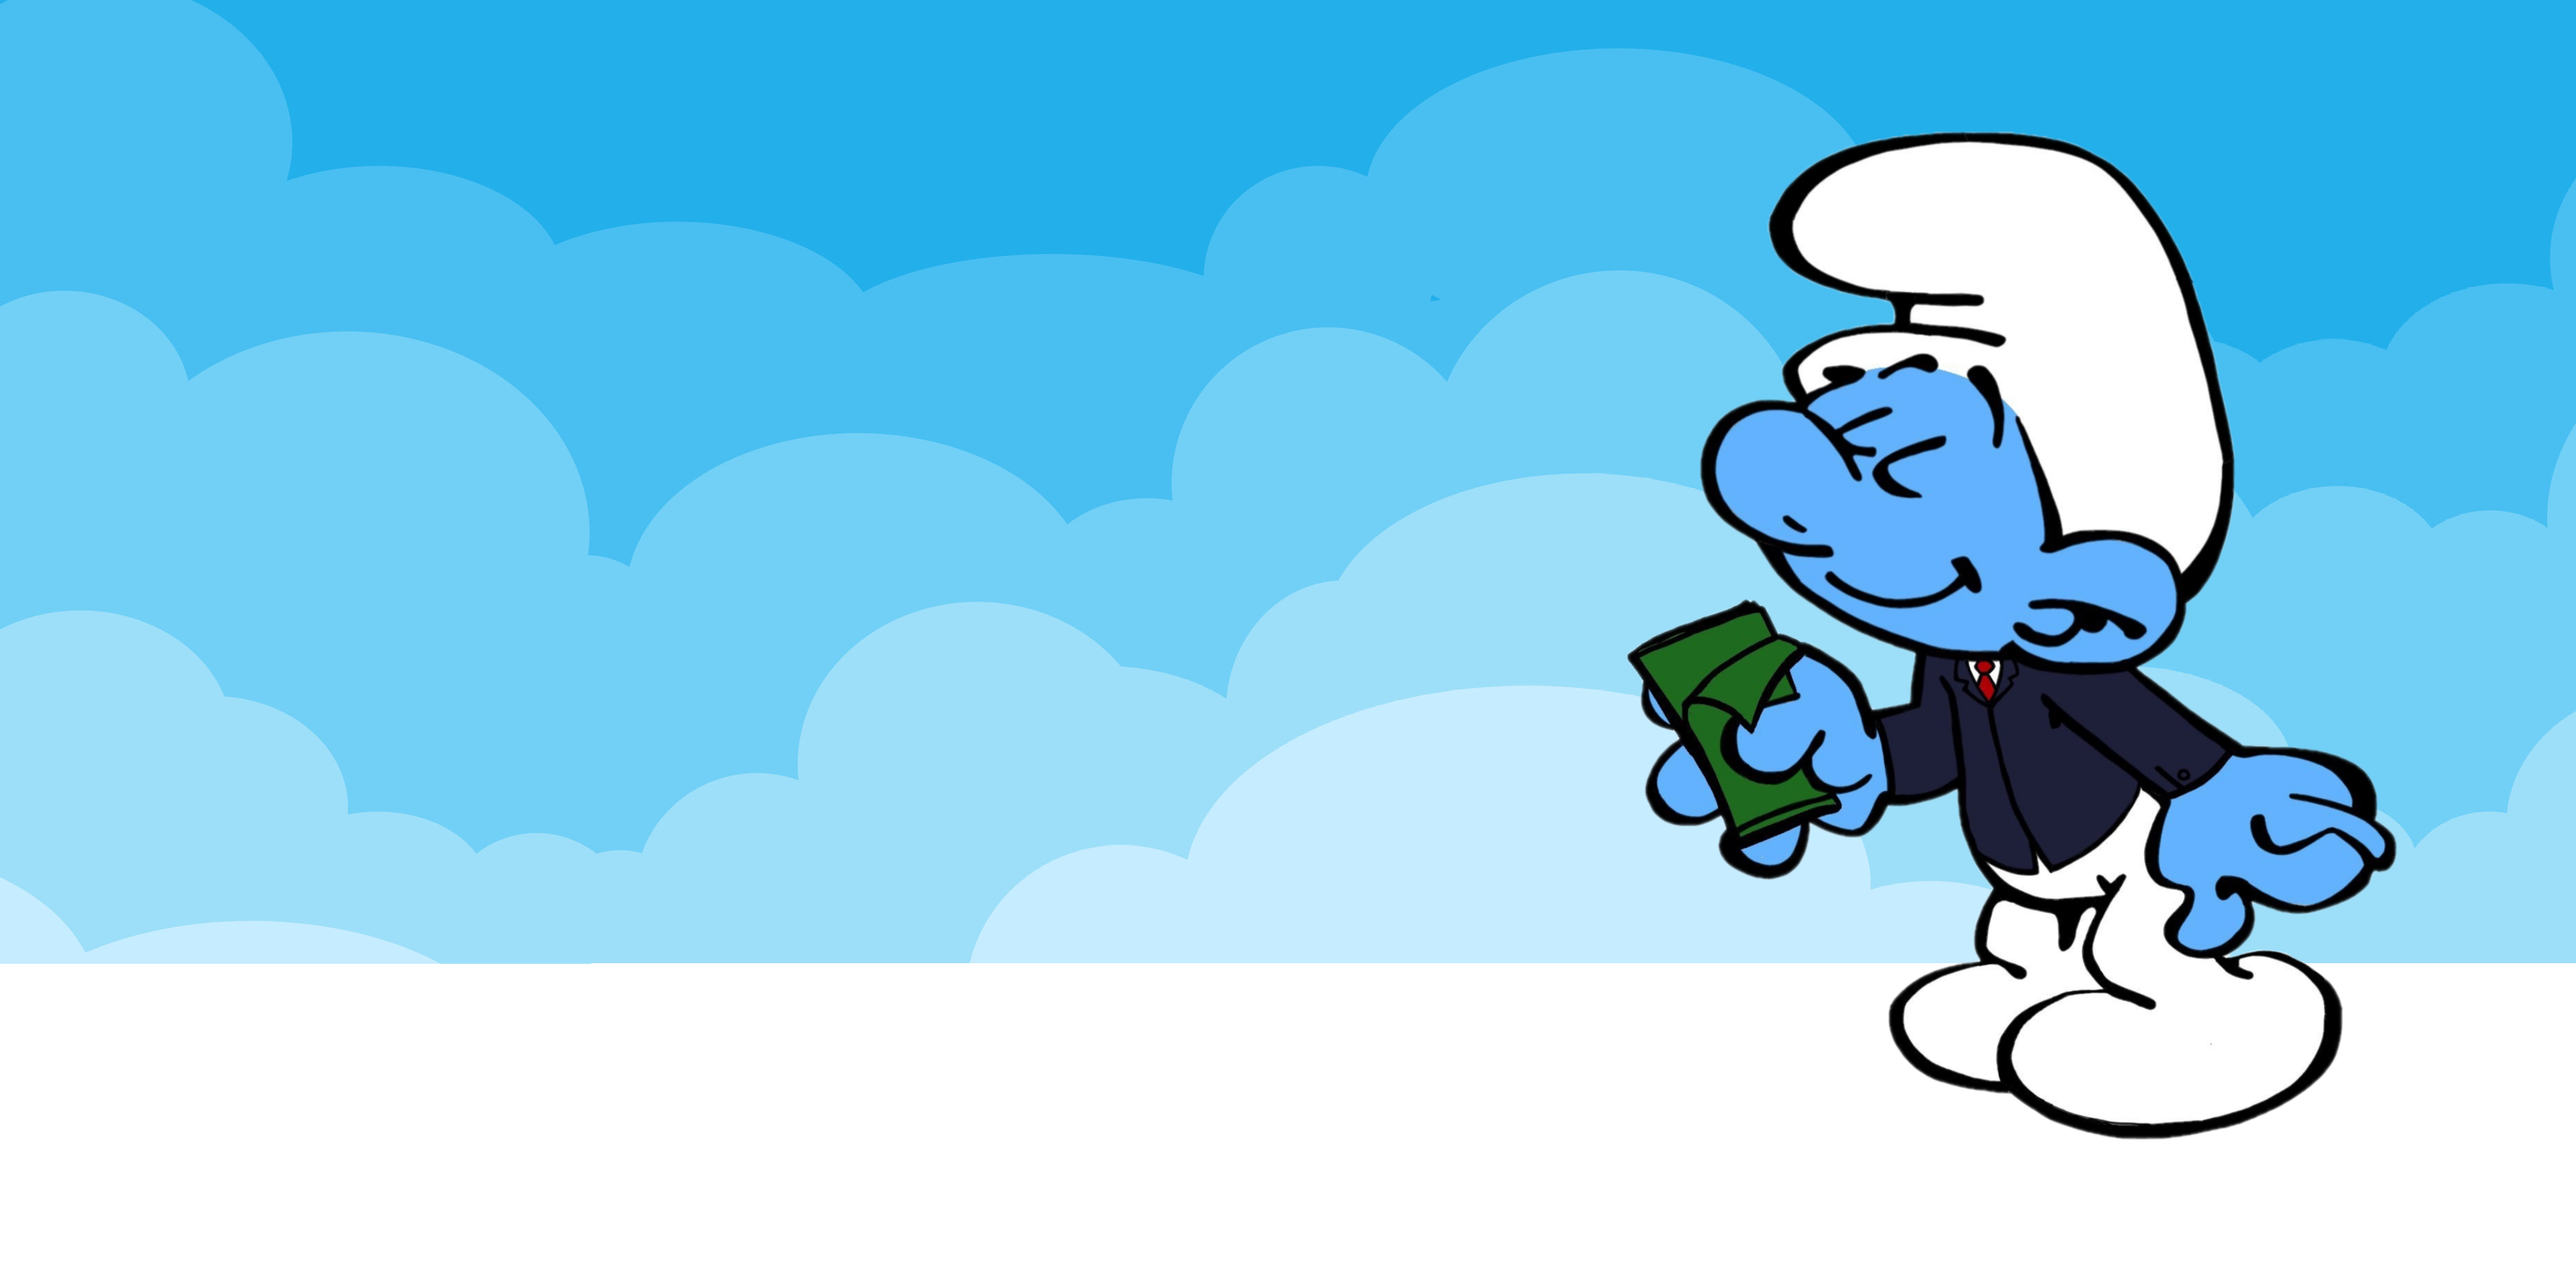
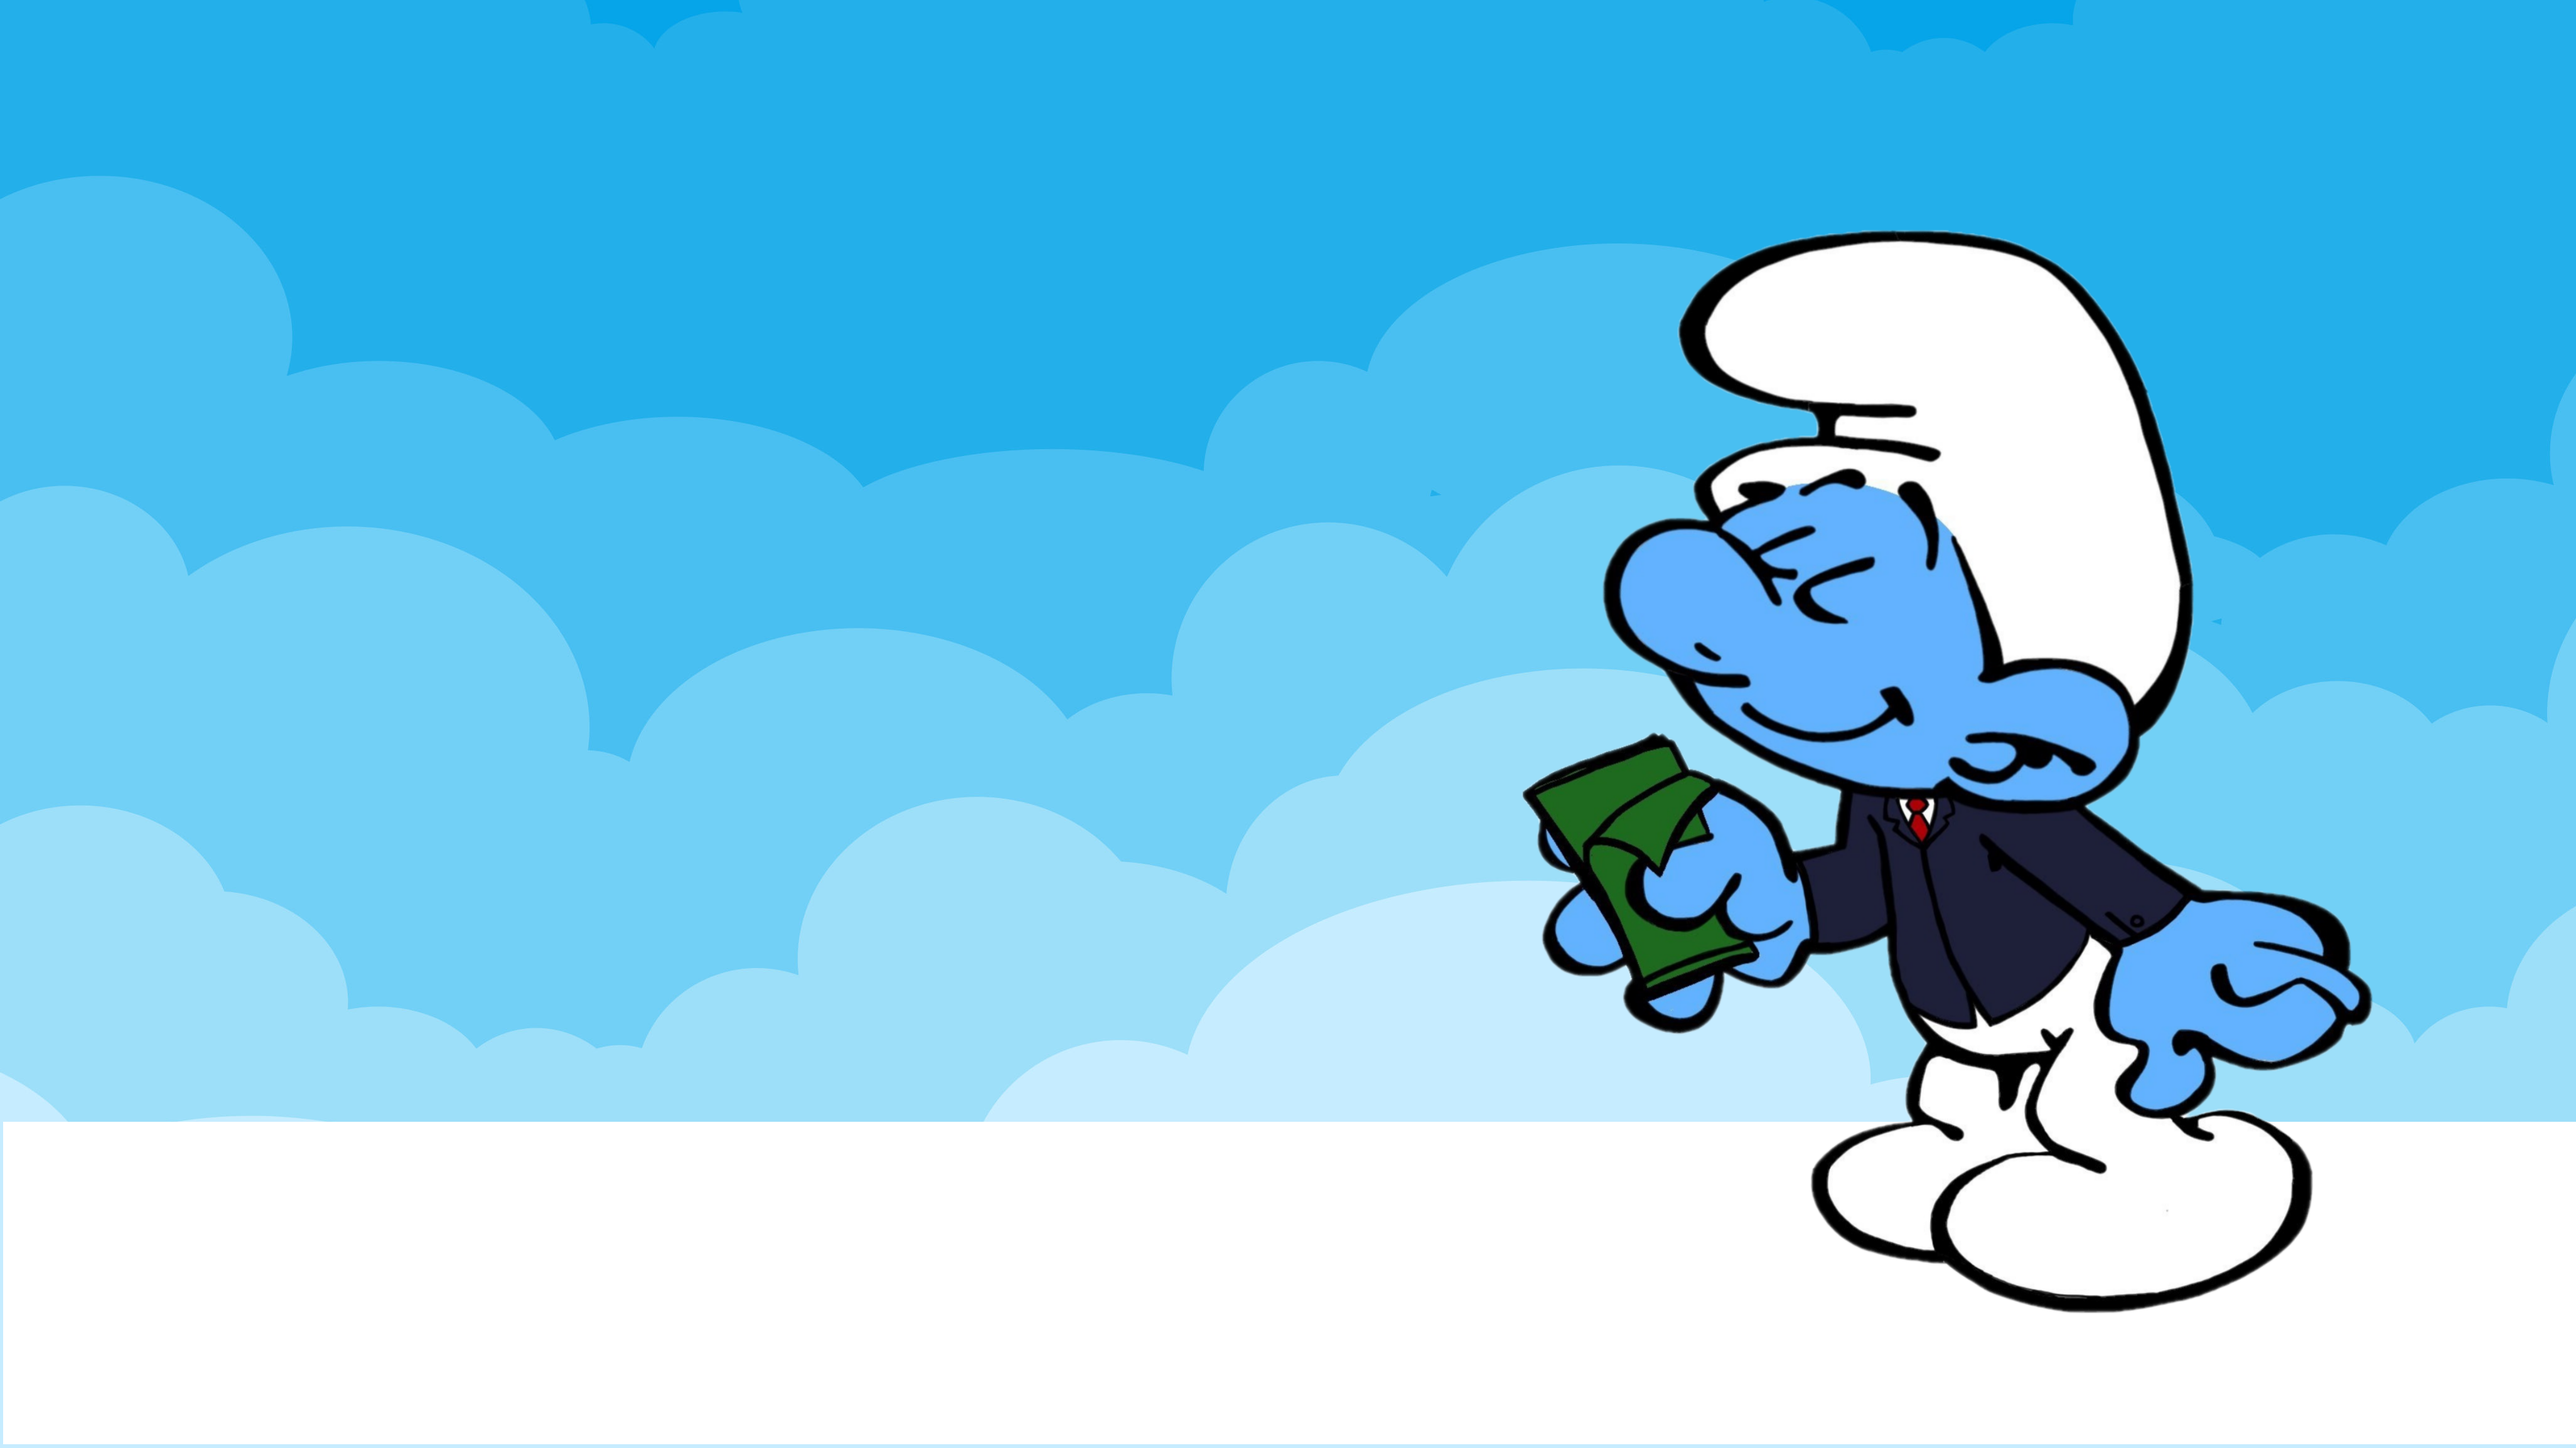
Responsive design home page

diff --git a/armit_website/src/routes/home2/+page.svelte b/armit_website/src/routes/home2/+page.svelte
@@ -1,41 +1,42 @@
-<div class="flex flex-col h-screen max-w-full">
-    <nav class="flex w-full h-28 bg-white text-navtext">
-        <div class="flex basis-1/2 justify-start items-center p-12 text-xl m-0 font-inter">
-            <a href="/" class="flex items-center">
-                <img class="h-24" alt="ArmIT Logo" src="/ArmITLogo_plain.png"/>
-            </a>
-        </div>
-        <!-- <div class="flex flex-grow justify-center gap-40 p-12 items-center text-xl m-0 font-inter md:visible invisible">
-            <div>Services</div>
-            <div>Team</div>
-            <div>DatE-IT</div>
-        </div> -->
-        <div class="flex flex-grow justify-end p-12 gap-20 items-center text-xl m-0 font-inter md:visible invisible">
-            <div>Services</div>
-            <div>Team</div>
-            <div>DatE-IT</div>
-            <a href="/" class="px-8 py-3 leading-none bg-navtext text-white lg:mt-0">Contact</a>
-        </div>
-    </nav>
-    <header class="flex flex-col bg-header justify-center gap-10 bg-no-repeat bg-cover md:object-scale-down h-full font-inter text-white">
-        <div class="flex flex-col justify-center gap-8 w-1/2 pl-40 pb-20">
-            <div class="flex flex-col gap-4 2xl:text-7xl lg:text-3xl">
-                Chalmers' IT Corporate Relations Committee
-                <div class="w-3/5 2xl:text-2xl lg:text-xl">
-                    Building meaningful connections that bridge the corporate-student divide
+<div class="flex h-screen w-full max-w-full max-h-full md:overflow-auto overflow-hidden">
+    <div class="flex flex-col w-full h-full bg-no-repeat bg-cover md:shrink-0 lg:bg-header bg-header-mobile">
+        <nav class="flex w-full h-32 text-white">
+            <div class="flex basis-1/2 justify-start items-center p-12 text-xl m-0 font-inter">
+                <a href="/" class="flex shrink-0 items-center">
+                    <img class="h-24" alt="ArmIT Logo" src="/ArmITLogo_plain.png"/>
+                </a>
+            </div>
+            <div class="flex flex-grow justify-end p-12 gap-20 items-center text-xl m-0 font-inter lg:visible invisible">
+                <a href="/" class="drop-shadow-lg">Services</a>
+                <a href="/" class="drop-shadow-lg">Team</a>
+                <a href="https://date-it.se/" target="_blank" class="drop-shadow-lg">DatE-IT</a>
+                <a href="/" class="px-8 py-3 drop-shadow-xl leading-none bg-navtext lg:mt-0">Contact</a>
+            </div>
+        </nav>
+        <header class="flex h-full font-inter text-white">
+            <div class="flex flex-col h-full lg:items-start items-center justify-center">
+                <div class="flex flex-grow justify-end flex-col gap-4 w-full md:w-2/3 2xl:w-1/2 lg:pl-40">
+                    <div class="flex 2xl:text-7xl text-5xl lg:text-start text-center">
+                        Chalmers' IT Corporate Relations Committee
+                    </div>
+                    <div class="flex md:text-4xl text-3xl lg:text-start text-center">
+                        Building meaningful connections that bridge the corporate-student divide
+                    </div>
+                    <div class="flex w-full md:text-start lg:justify-start justify-center">
+                        <a href="/" class="flex justify-center px-8 py-3 w-1/3 md:visible invisible leading-none drop-shadow-xl bg-white text-navtext lg:mt-0">Our services</a>
+                    </div>
                 </div>
+                <div class="flex flex-col flex-grow justify-end gap-2 lg:text-start text-center lg:pl-40 mb-4 w-2/3 text-navtext overflow-hidden 2xl:text-2xl lg:text-xl">
+                    Trusted by 
+                    <div class="flex items-center lg:justify-start justify-center w-full gap-12">
+                        <img class="h-auto sm:w-1/3 md:w-1/5 max-h-full" alt="Centiro" src="/Centiro_logo.png"/>
+                        <img class="h-auto sm:w-1/3 md:w-1/5 max-h-full" alt="Opera" src="/Opera_GX_logo.png"/>
+                        <img class="h-auto sm:w-1/3 md:w-1/5 max-h-full pb-4" alt="Accenture" src="/Accenture_logo.png"/>
+                    </div>
+                </div> 
             </div>
-            <a href="/" class="flex justify-center px-8 py-3 w-1/4 2xl:text-xl md:text-base leading-none bg-white text-navtext lg:mt-0">Our services</a>
-        </div>
-        <!-- <div class="flex flex-col gap-2 justify-start pl-40 w-2/3 text-navtext overflow-hidden 2xl:text-2xl lg:text-xl">
-            Trusted by 
-            <div class="flex gap-12">
-                <img class="w-1/6 max-h-full" alt="Centiro" src="/Centiro_logo.png"/>
-                <img class="w-1/6 max-h-full" alt="Opera" src="/Opera_GX_logo.png"/>
-                <img class="w-1/6 max-h-full pb-4" alt="Accenture" src="/Accenture_logo.png"/>
-            </div>
-        </div> -->
-    </header>
+        </header>
+    </div>
 </div>
 
 

diff --git a/armit_website/src/app.html b/armit_website/src/app.html
@@ -3,7 +3,7 @@
 	<head>
 		<meta charset="utf-8" />
 		<link rel="icon" href="%sveltekit.assets%/favicon.png" />
-		<meta name="viewport" content="width=device-width" />
+		<meta name="viewport" content="width=device-width, initial-scale=1" />
 		<link rel="stylesheet" href="https://rsms.me/inter/inter.css">
 		%sveltekit.head%
 	</head>

diff --git a/armit_website/tailwind.config.js b/armit_website/tailwind.config.js
@@ -16,7 +16,8 @@ export default {
         'navtext': '#214173',
       },
       backgroundImage: {
-        'header': "url('/header1.png/')",
+        'header': "url('/header3.png/')",
+        'header-mobile': "url('header_phone.png/')",
       },
     }
   },
